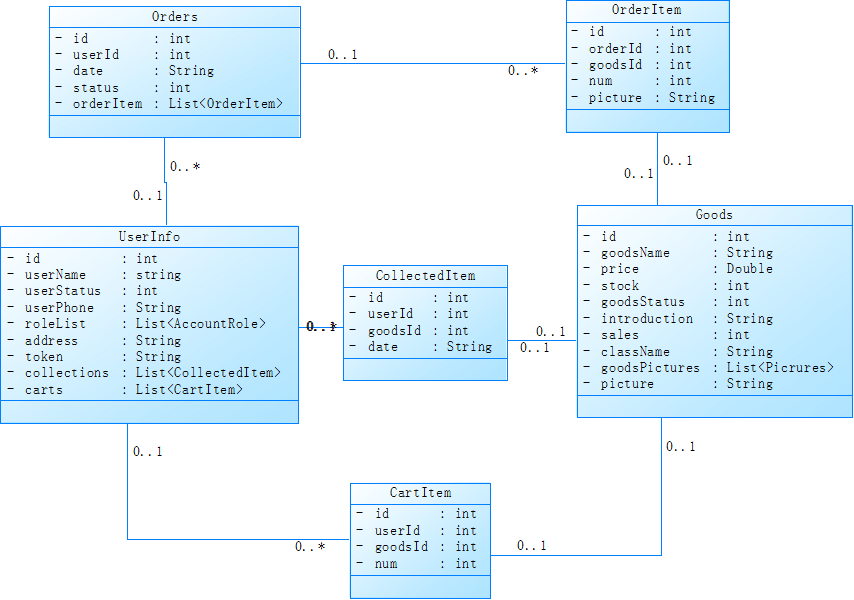
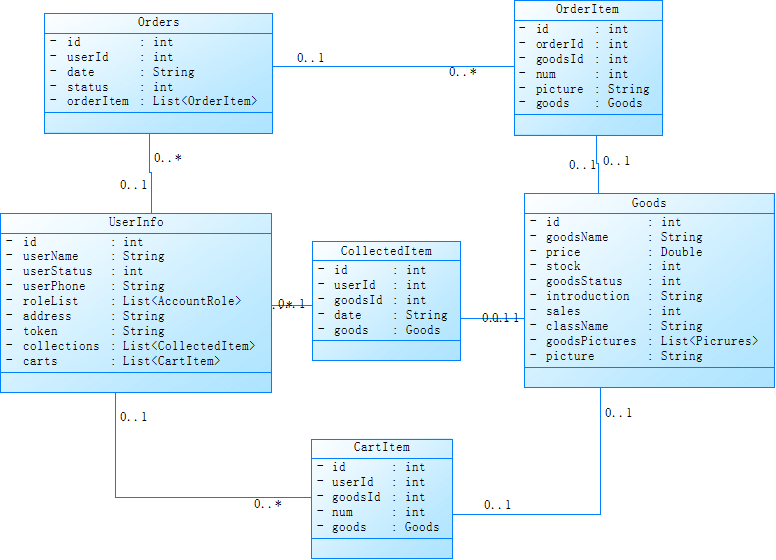
修改类图和部分bug

diff --git a/src/main/java/com/shopping/inferior/files/controller/FileController.java b/src/main/java/com/shopping/inferior/files/controller/FileController.java
@@ -17,7 +17,7 @@ import java.net.URLEncoder;
 import java.util.List;
 
 @RestController
-@RequestMapping("/file")
+@RequestMapping("/files")
 public class FileController {
     /**
      * 上传文件
@@ -28,7 +28,6 @@ public class FileController {
     @ApiDoc(stringResult = "{code:‘string//200为正确，400为出错’,     msg: 'string//提示信息',    data:'string//上传后的地址'}")
     @PostMapping("/{type}")
     public Result<?> upload(MultipartFile file,@PathVariable String type){
-        if(!authority.hasRights("buyer"))return Result.error("no way");
         try{
             String name = fileService.uploadImg(file,type);
             name = "http://localhost:8980/files/"+type+"/"+name;

diff --git a/README.md b/README.md
@@ -60,12 +60,6 @@
 
 ### 持久层类图分析
 
-- 总览
-
-!(/img-folder/image-20220309194919381.png)
-
-![image-20220329090518647](C:\Users\23108\AppData\Roaming\Typora\typora-user-images\image-20220329090518647.png)
-
 - 用户安全控制
 
 ![](/img-folder/image-20220309195010507.png)
@@ -114,7 +108,7 @@
 
 - 商品接口
 
-![](/img-folder/image-20220309195829485.png)
+![](/img-folder/image-20220309195811873.png)
 
 - 购物车接口
 
